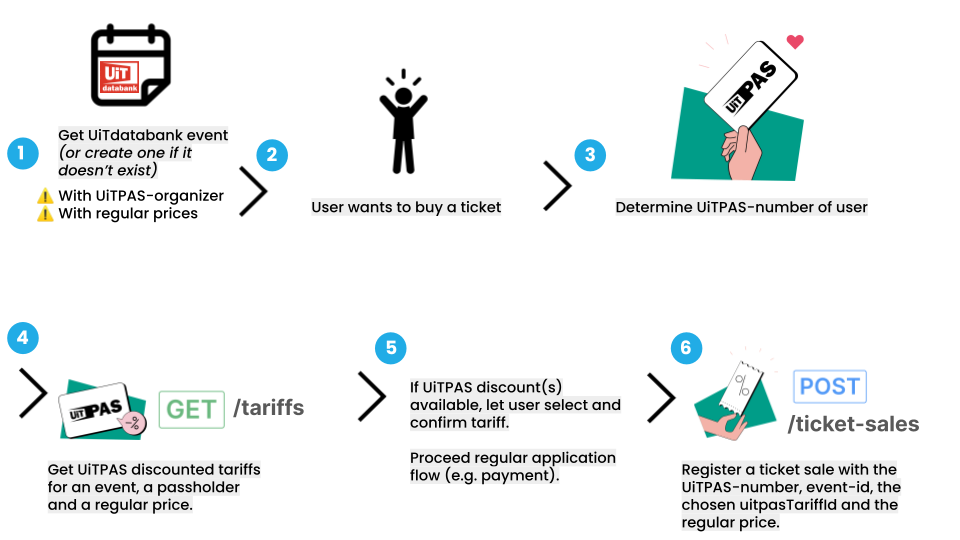
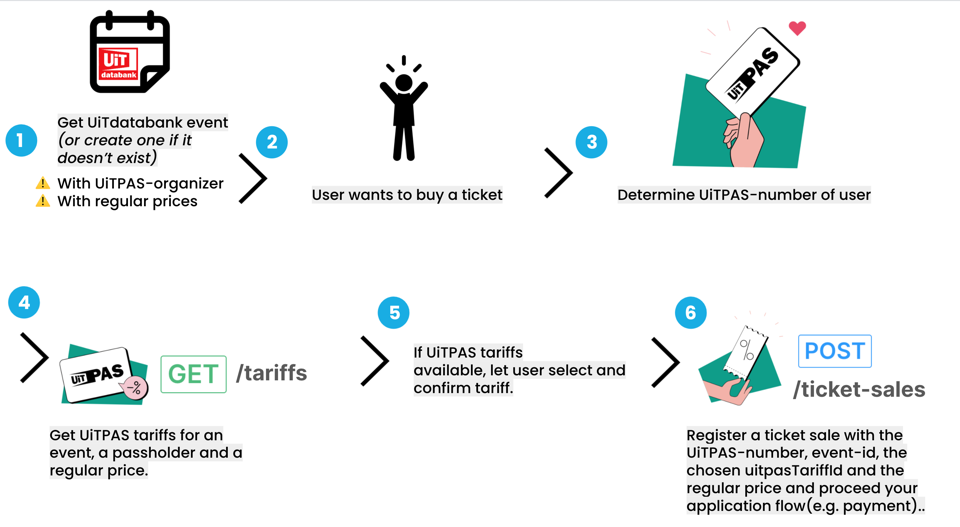
Modified docs/faq.md

diff --git a/docs/registering-ticket-sales.md b/docs/registering-ticket-sales.md
@@ -2,7 +2,7 @@
 
 This guide illustrates how to register an UiTPAS discounted ticket sale so passholders can receive their UiTPAS discount and organizers can be reimbursed within the UiTPAS financial flow.
 
-You'll learn how to request possible UiTPAS tariffs, register the ticket sale and even cancel it if needed.
+You'll learn how to request available UiTPAS tariffs for an event and passholder, register the ticket sale and even cancel it if needed.
 
 The whole flow consists of approximately two to four API calls depending on your situation.
 
@@ -46,9 +46,9 @@ Your application then starts its typical flow of guiding the passholder through 
 
 At some point during the checkout process on your website or application (but **before a payment has happened**), you provide the passholder a way to enter their UiTPAS number if they have one.
 
-### 4. Determine possible UiTPAS tariffs
+### 4. Determine available UiTPAS tariffs
 
-Using the event id, the UiTPAS number and the regular price of your event, you can [request possible UiTPAS tariffs](/reference/UiTPAS.v2.json/paths/~1tariffs/get).
+Using the event id, the UiTPAS number and the regular price of your event, you can [request available UiTPAS tariffs](/reference/UiTPAS.v2.json/paths/~1tariffs/get).
 
 Example request:
 
@@ -93,22 +93,23 @@ In this example the passholder can select two possible UiTPAS discounts. The soc
 > ##### remaining tickets at a tariff
 > For regular passholders, the `remaining` value is always 1. Please refer to [registering ticket sales for group passes](https://publiq.stoplight.io/docs/authentication/docs/registering-ticket-sales-group) for more information on group pass ticket sales.
 
+
 ### 5. Passholder selects a tariff
 
 If the API response contained one or more UiTPAS tariffs, your website or application should present them to the passholder to select one (or none). Since some discounts are only usable once, it's important that passholders can choose when to use a specific discount.
 
 For example if all the discounted tariffs are based on one-time-use coupons, but the passholder does not wish to use any coupons after all, he/she should be able to not select one.
 
-> ##### Social tariff
-> The list of available tariffs can contain exactly zero or one tariff of type `SOCIALTARIFF`. Tariffs of other types can occur zero or more times.
-> Your application may choose to support only social tariff types, in which case this step can be simplified or even omitted. Be aware that some passholders might expect to see more tariffs, so in that case it should be made clear that only social tariffs are supported by your application.
+> ##### type
+> Tariffs can be of different types, e.g. `SOCIALTARIFF` or `COUPON`.
+> _If_ the passholder is entitled to a social tariff, only one such tariff will be available. If your application does not wish to support the use of coupon tariffs, it could auto-select the tariff with type `SOCIALLTARIFF` when available, without asking the pasholder.
 
 
 ### 6. Register the ticket sale
 
-After the passholder has selected an UiTPAS tariff, your website or application continues with its regular flow for completing the sale like payment (for the discounted price) etc.
+After the passholder has selected an UiTPAS tariff, the [ticket sale(s) must be registered](/reference/UiTPAS.v2.json/paths/~1ticket-sales/post). Only after this registration step, your application can be sure that the UiTPAS discounted price can be granted. If you don't register the ticket sale correctly, the organizer can not get reimbursed for the discount within the UiTPAS financial flow.
 
-When your regular flow successfully finishes, you need to [register the ticket sale](/reference/UiTPAS.v2.json/paths/~1ticket-sales/post). If you don't register the ticket sale correctly, the organizer can not get reimbursed for the discount within the UiTPAS financial flow.
+ 
 
 > If the passholder had no UiTPAS tariffs, or did not select one, you do not need to register your ticket sale with UiTPAS.
 
@@ -169,9 +170,13 @@ Note that depending on your client's permissions, the response can also contain 
 
 > Note that the response contains an id for every registered ticket sale. **We advise you to store this id** in your application in case you need to cancel the ticket sale later.
 
+
 <!-- theme: warning -->
 
 > **If one of the ticket sales is invalid** (for example the chosen tariff is incorrect or expired), **none of the ticket sales will be registered**. You will instead get an error response with more details about the problem, and can then retry the registration without the incorrect ticket sales or ask the passholder to change the tickets and/or tariffs that they want.
+
+After registering the ticket sale, your website or application should continue with its regular flow for completing the sale like payment (for the discounted price) etc.
+
 
 ### 7. Cancelling the ticket sale
 

diff --git a/docs/quickstart.md b/docs/quickstart.md
@@ -6,8 +6,11 @@
 
 2.  Carefully read [the authentication guide](https://publiq.stoplight.io/docs/authentication/docs/methods.md) and get a grasp of common UiTPAS [terminology](./terminology.md).
 
-3.  Start building your application on the UiTPAS testing environment.
+3.  Start building your application on the UiTPAS testing environment. 
+    
     Make use of our step-by-step guides for common integration scenarios
     such as [How to register discounted ticket sales](./registering-ticket-sales.md) and [How to register UiTPAS events](./registering-events.md).
 
-4.  Ready for production? [Request your credentials](https://forms.gle/CDdJfmeuNocYPSRc9) for the UiTPAS production environment. Before receiving these, we ask you to send us a short overview of your integration and to give us a quick demo.
+    You will receive test credentials including permissions for a test organizer.
+
+4.  Ready for production? [Request your credentials](https://forms.gle/CDdJfmeuNocYPSRc9) for the UiTPAS production environment. These credentials should be requested by the UiTPAS organizer, so the correct permissions can be granted. Before receiving these, we ask you to send us a short overview of your integration and to give us a quick demo.

diff --git a/docs/faq.md b/docs/faq.md
@@ -42,3 +42,9 @@ If the passholder doesn't end up buying the ticket, you should [cancel the ticke
 ### Can I get a list of all UiTPAS numbers that have a social tariff ('kansentarief')?
 
 The calculation of the correct UiTPAS tariffs is dependent on many factors such as the availability of a social tariff for the passholder and settings within the UiTPAS region. These are checked in realtime by UiTPAS. That's why it's a bad idea to only use UiTPAS numbers without accessing the UiTPAS API.
+
+### My application is used by multiple UiTPAS organizers.  Can I use the same set of credentials?
+
+No, you will receive one set of credentials per organizer. We encourage organizers to request their own credentials and provide them to your application.
+
+
